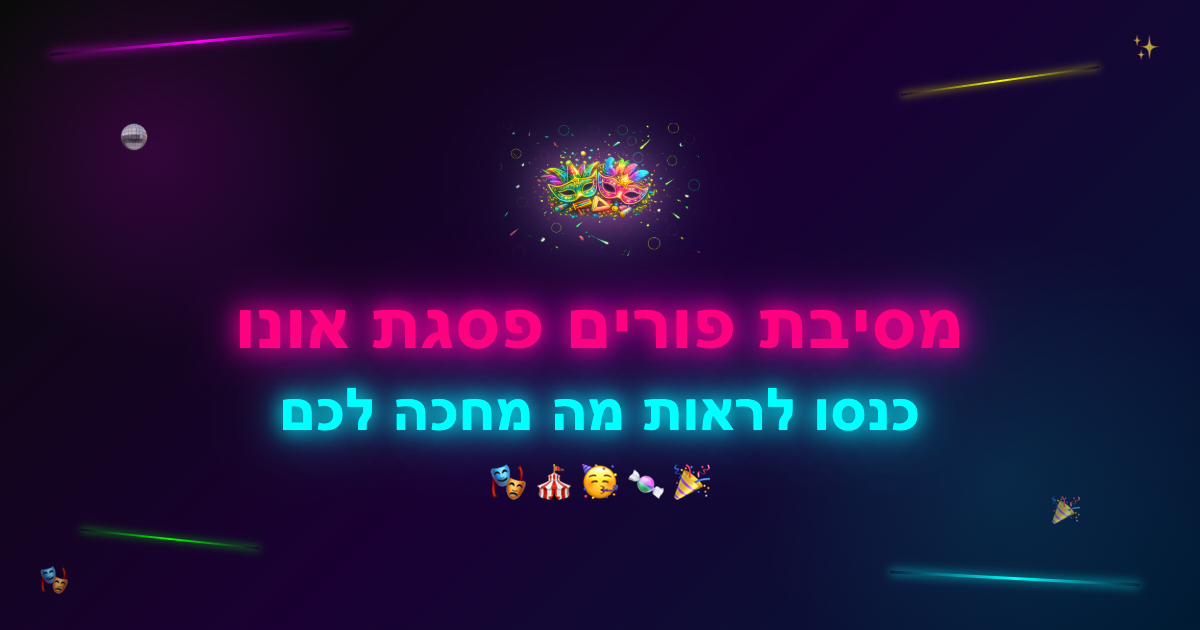
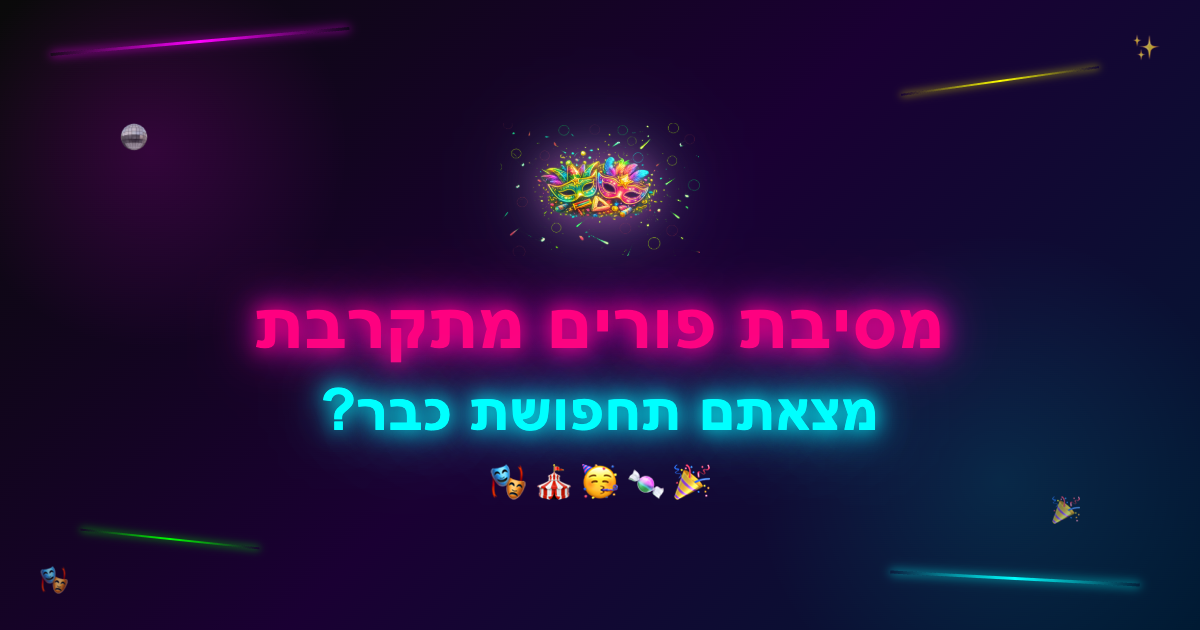
Update OG image: מסיבת פורים מתקרבת / מצאתם תחפושת כבר?

Changed region(s): [[0.185, 0.4524, 0.8325, 0.7238]]

diff --git a/index.html b/index.html
@@ -8,14 +8,14 @@
     <meta property="og:title" content="אין מקום אחר! מסיבת פורים 🎭" />
     <meta property="og:description" content="אין מקום אחר! מסיבת פורים" />
     <meta property="og:type" content="website" />
-    <meta property="og:image" content="https://teaser-silk.vercel.app/og-preview.png?v=3" />
+    <meta property="og:image" content="https://teaser-silk.vercel.app/og-preview.png?v=4" />
     <meta property="og:image:width" content="1200" />
     <meta property="og:image:height" content="630" />
     <meta property="og:url" content="https://teaser-silk.vercel.app" />
     <meta name="twitter:card" content="summary_large_image" />
     <meta name="twitter:title" content="אין מקום אחר! מסיבת פורים 🎭" />
     <meta name="twitter:description" content="אין מקום אחר! מסיבת פורים" />
-    <meta name="twitter:image" content="https://teaser-silk.vercel.app/og-preview.png?v=3" />
+    <meta name="twitter:image" content="https://teaser-silk.vercel.app/og-preview.png?v=4" />
     <link rel="preconnect" href="https://fonts.googleapis.com">
     <link rel="preconnect" href="https://fonts.gstatic.com" crossorigin>
     <link href="https://fonts.googleapis.com/css2?family=Space+Grotesk:wght@400;600;700;900&display=swap" rel="stylesheet">

diff --git a/scripts/generate-og.html b/scripts/generate-og.html
@@ -145,8 +145,8 @@ body::after {
   <span class="sparkle s4">🎉</span>
 
   <img class="mask-img" src="mask.png" />
-  <div class="text-line">מסיבת פורים פסגת אונו</div>
-  <div class="text-line-2">כנסו לראות מה מחכה לכם</div>
+  <div class="text-line">מסיבת פורים מתקרבת</div>
+  <div class="text-line-2">מצאתם תחפושת כבר?</div>
   <div class="emoji-row">🎭 🎪 🥳 🍬 🎉</div>
 </body>
 </html>
